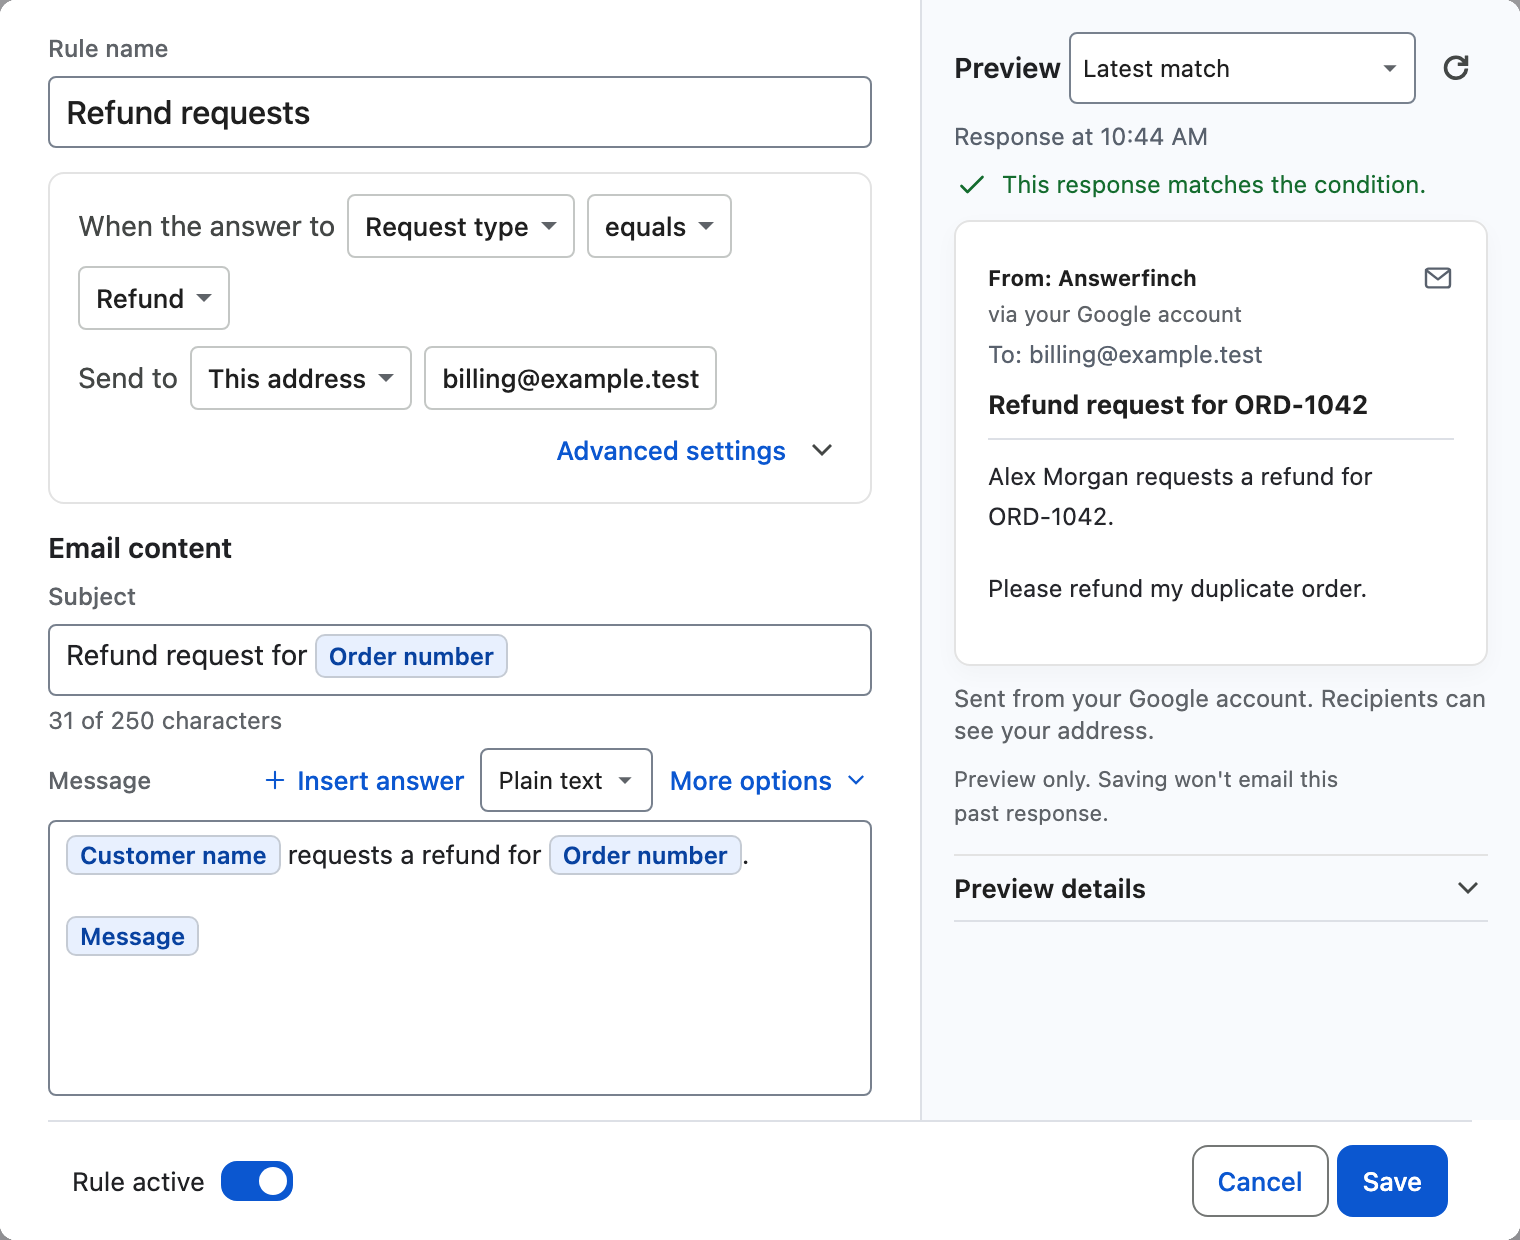
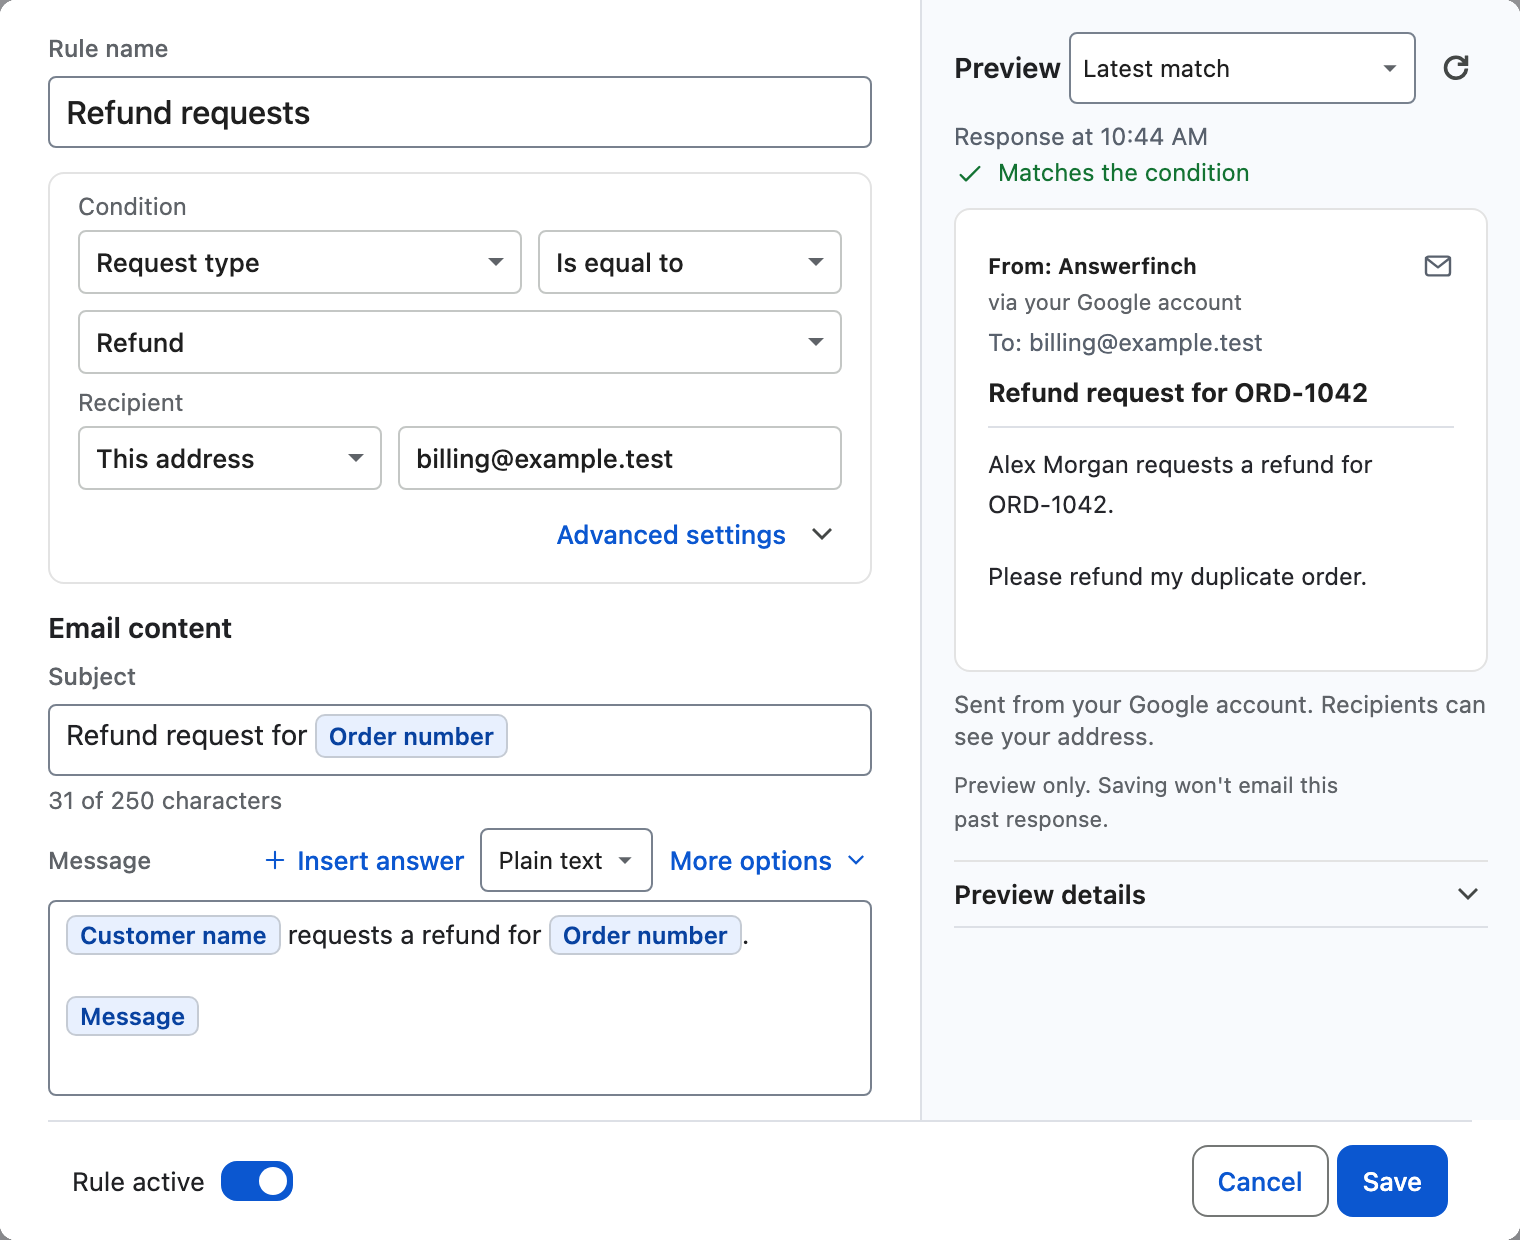
Landing: editor screenshot shows the fixed-grid editor

diff --git a/index.html b/index.html
@@ -96,7 +96,7 @@
         <li class="card"><h3>Save, turn on, test</h3><p>Preview and save the rule. Turn it on, then send yourself a test from the rule menu.</p></li>
       </ol>
       <figure class="editor narrow">
-        <div class="shot"><img src="assets/v10/editor-en.png" width="1520" height="1240" loading="lazy" alt="The Answerfinch rule editor. The rule reads: when the answer to Request type equals Refund, send to billing@example.test. The email subject and message are below, and a preview of the email on the right shows that this response matches."></div>
+        <div class="shot"><img src="assets/v10/editor-en.png" width="1520" height="1240" loading="lazy" alt="The Answerfinch rule editor. Condition: Request type is equal to Refund. Recipient: this address, billing@example.test. The email subject and message are below, and a preview on the right shows the email this response would send."></div>
         <figcaption class="shot-caption">The rule editor shows the email before you save it. Sample form.</figcaption>
       </figure>
     </div>
